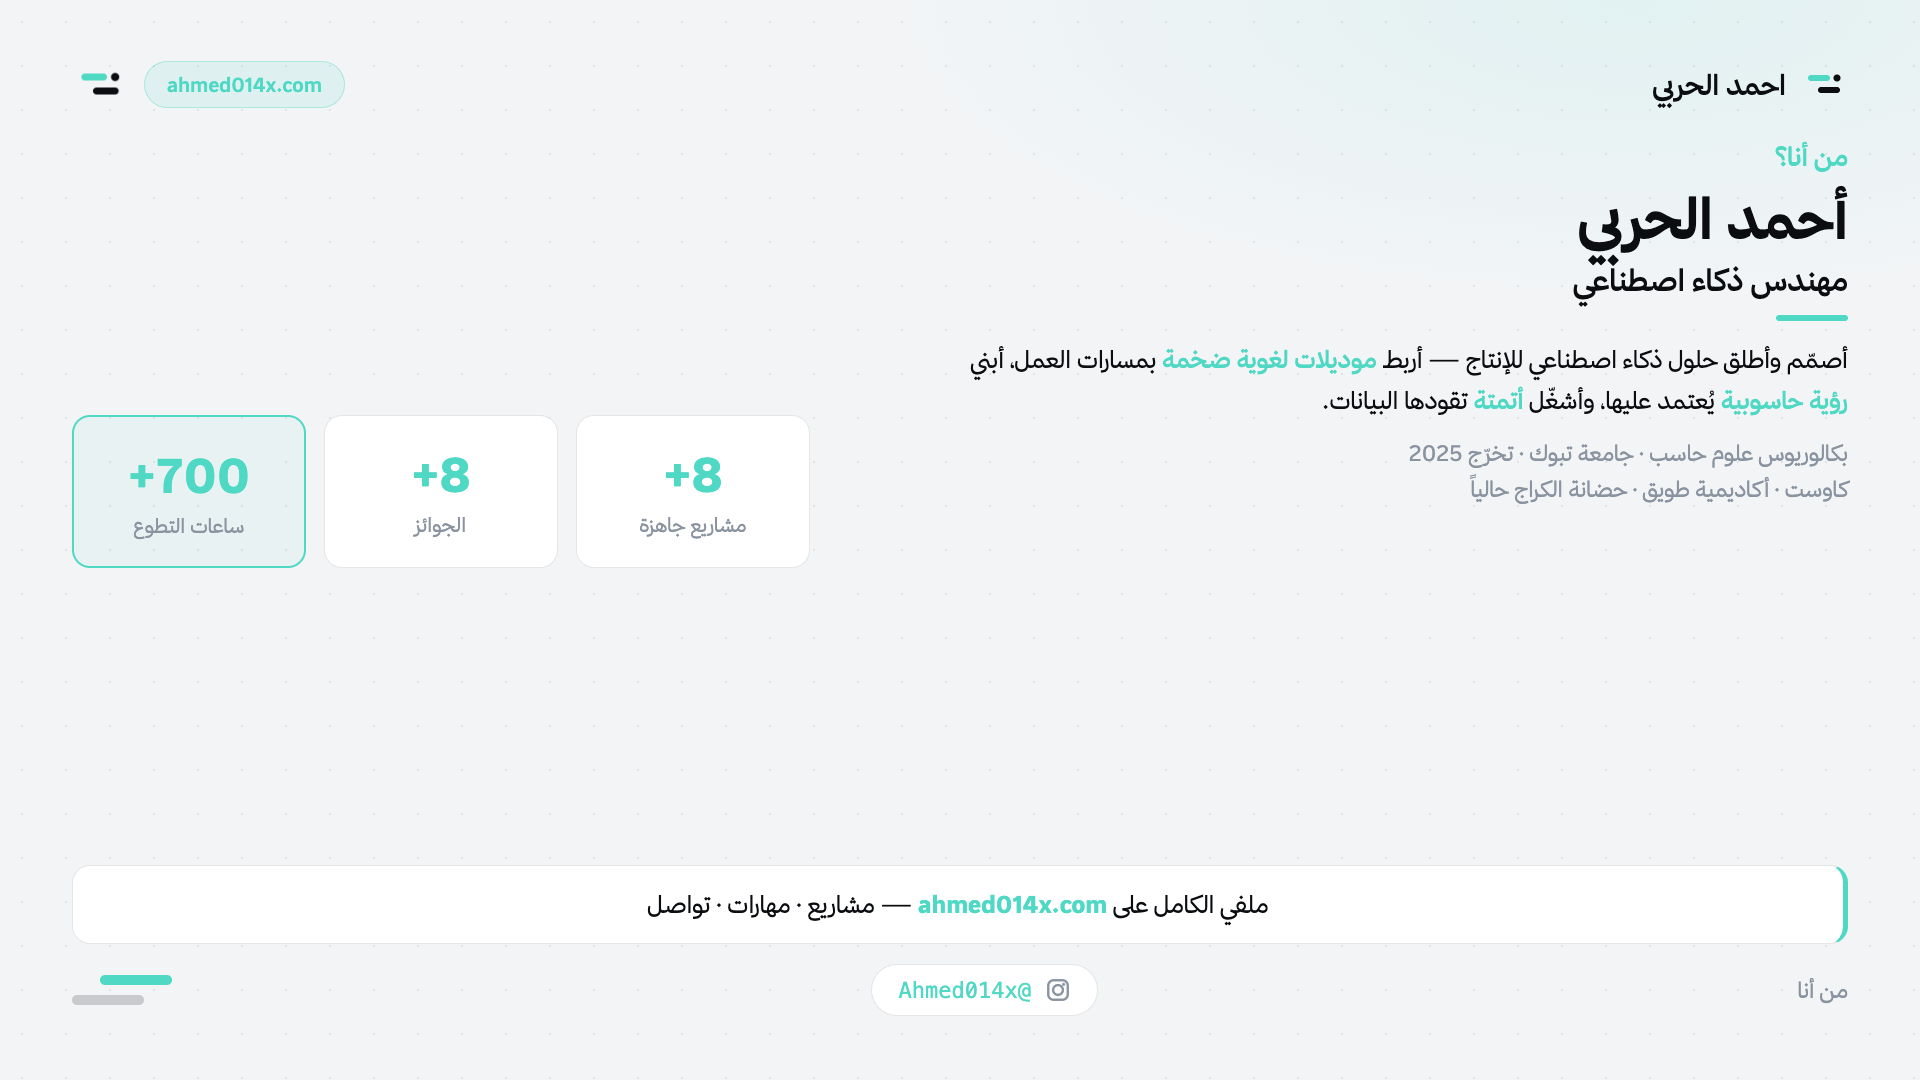
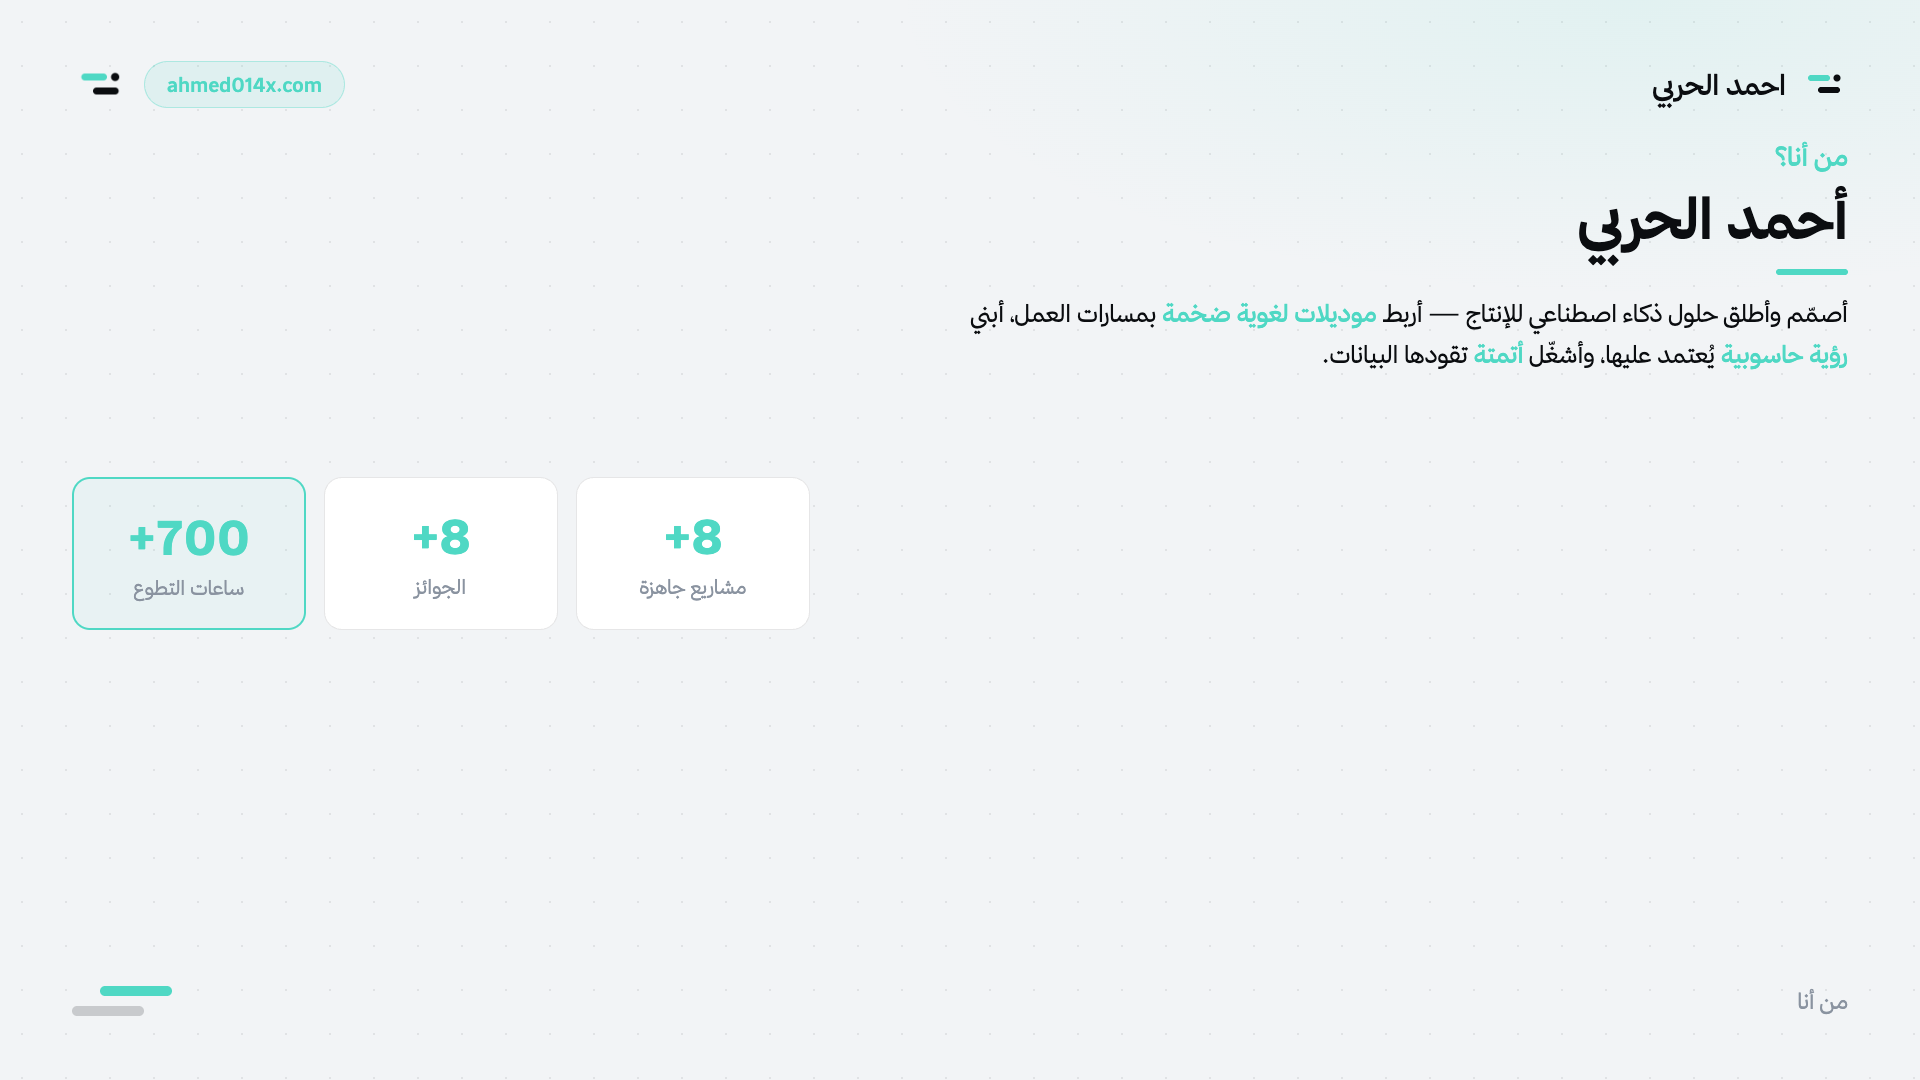
Update HTML content in the brand package for the computer vision poster series by removing outdated text elements and streamlining the layout. Key changes include the removal of personal information and social media handles to enhance focus on professional skills and offerings.

diff --git a/brand-package/html/عرض-من-أنا.html b/brand-package/html/عرض-من-أنا.html
@@ -71,14 +71,9 @@ body{margin:0;background:#e8ebee;font-family:'Thmanyah Sans',sans-serif}
     <div>
       <div class="kicker">من أنا؟</div>
       <div class="title">أحمد الحربي</div>
-      <div style="font-size:30px;font-weight:600;margin-top:8px;color:#0b0d10">مهندس ذكاء اصطناعي</div>
       <div class="bar"></div>
       <div style="font-size:24px;line-height:1.7;margin-top:18px;max-width:920px">
         أصمّم وأطلق حلول ذكاء اصطناعي للإنتاج — أربط <span class="teal" style="font-weight:600">موديلات لغوية ضخمة</span> بمسارات العمل، أبني <span class="teal" style="font-weight:600">رؤية حاسوبية</span> يُعتمد عليها، وأشغّل <span class="teal" style="font-weight:600">أتمتة</span> تقودها البيانات.
-      </div>
-      <div class="muted" style="font-size:22px;margin-top:14px;line-height:1.65">
-        بكالوريوس علوم حاسب · جامعة تبوك · تخرّج 2025<br/>
-        كاوست · أكاديمية طويق · حضانة الكراج حالياً
       </div>
     </div>
 
@@ -100,16 +95,8 @@ body{margin:0;background:#e8ebee;font-family:'Thmanyah Sans',sans-serif}
     </div>
   </div>
 
-  <div class="takeaway" style="margin-top:22px">
-    ملفي الكامل على <span class="teal" style="font-weight:700">ahmed014x.com</span> — مشاريع · مهارات · تواصل
-  </div>
-
   <div class="footer">
     <div class="page">من أنا</div>
-    <div class="handle-pill">
-      <svg width="26" height="26" viewBox="0 0 24 24" fill="none" stroke="#8a93a0" stroke-width="2.2" stroke-linecap="round"><rect x="3" y="3" width="18" height="18" rx="5"/><circle cx="12" cy="12" r="4.5"/><circle cx="17.2" cy="6.8" r="1.4" fill="#8a93a0" stroke="none"/></svg>
-      <span class="handle">@Ahmed014x</span>
-    </div>
     <div class="signal"><span class="a"></span><span class="b"></span></div>
   </div>
 </div>
